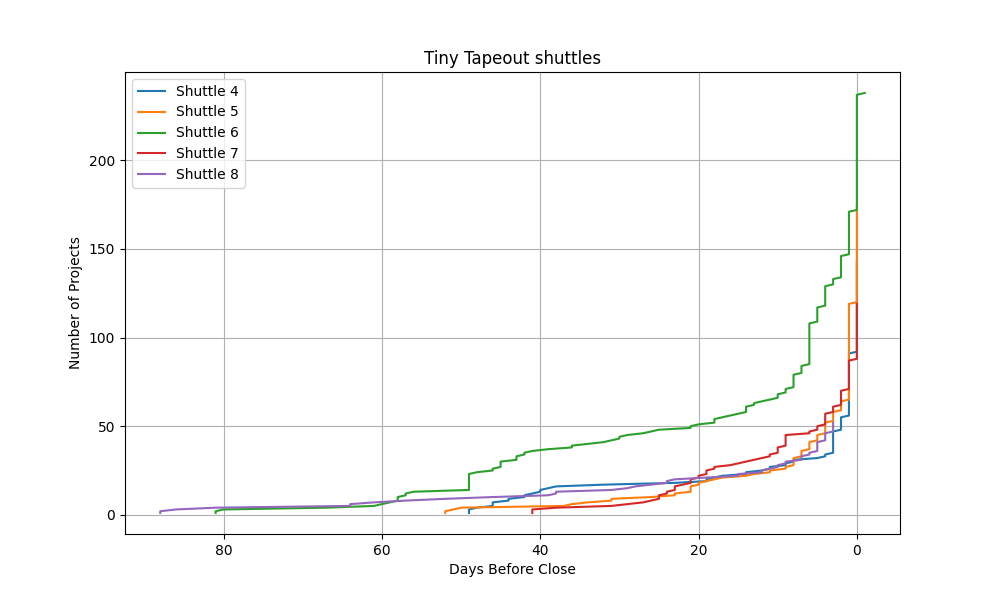
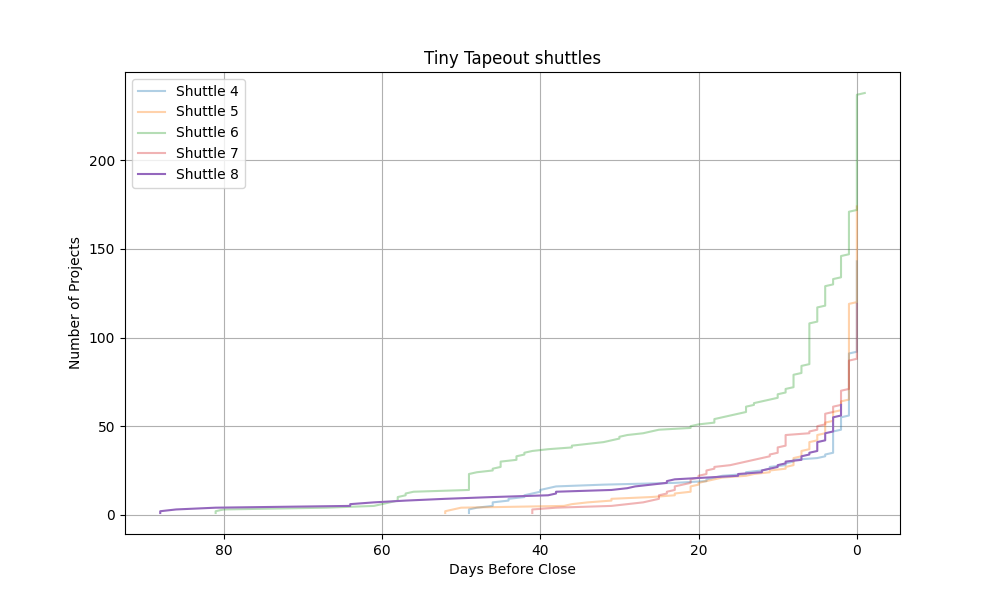
alpha on old runs

diff --git a/parse.py b/parse.py
@@ -30,8 +30,15 @@ df['cumulative_projects'] = df.groupby('shuttle_id').cumcount() + 1
 plt.figure(figsize=(10, 6))
 for shuttle_id, group in df.groupby('shuttle_id'):
     print(f"shuttle {shuttle_id} : {group['cumulative_projects'].values[-1]}")
-    plt.plot(group['days_before_close'].values, group['cumulative_projects'].values, label=f"Shuttle {shuttle_id}")
+    linestyle = 'dotted'
+    alpha = 0.35
+    if shuttle_id == 8:
+        linestyle = 'solid'
+        alpha = 1
+    plt.plot(group['days_before_close'].values, group['cumulative_projects'].values, label=f"Shuttle {shuttle_id}", alpha=alpha) #linestyle=linestyle)
 plt.gca().invert_xaxis()
+#plt.xscale('log')
+#plt.yscale('log')
 plt.xlabel('Days Before Close')
 plt.ylabel('Number of Projects')
 plt.title('Tiny Tapeout shuttles')
